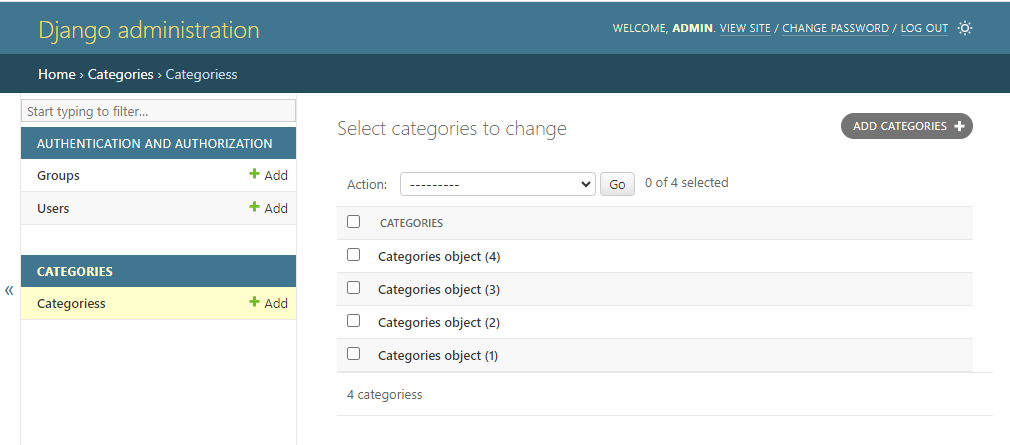
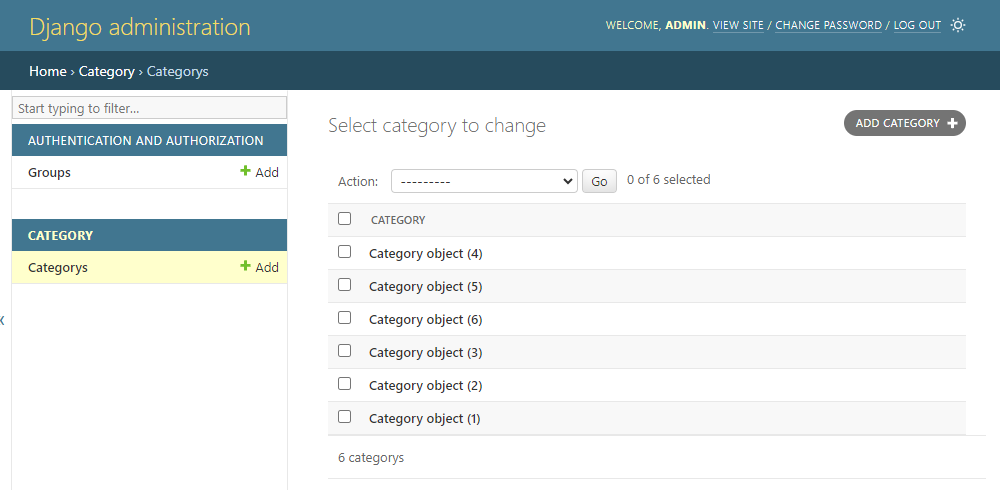
up

diff --git a/01.Lessions/Session-04-Django-Admin/README.md b/01.Lessions/Session-04-Django-Admin/README.md
@@ -20,8 +20,6 @@ urlpatterns = [
     path('', include("home.urls")),
     # đường dẫn đến trang admin
     path('admin/', admin.site.urls), 
-    path('categories/', include('categories.urls')),
-    
 ]
 ```
 
@@ -53,13 +51,13 @@ Mặc định khi tạo một app thì nó đã có sẵn file `admin.py`, bạn
 ```python
 from django.contrib import admin
 # Nạp model vào
-from .models import Categories
+from .models import Category
 # Register your models here.
 # Sử dụng hàm admin.site.register để đăng ký Model 
-admin.site.register(Categories)
+admin.site.register(Category)
 ```
 
-Sau đó bạn restart lại server và kiểm tra trong giao diện admin sẽ thấy Module Categories được thêm vào.
+Sau đó bạn restart lại server và kiểm tra trong giao diện admin sẽ thấy Model Category được thêm vào.
 
 ![admin03](img/admin03.png)
 
@@ -73,14 +71,15 @@ Danh sách tên các danh mục, nhưng nó hiển thị mặc định như hìn
 from django.db import models
 
 # Create your models here.
-# Tạo bảng Categories
-class Categories(models.Model):
+# Tạo bảng Category
+class Category(models.Model):
     #Để hiện thị tên ở trong list Dashboard
     def __str__(self):
         return self.category_name
     
     class Meta:
-        db_table = 'categories'
+        db_table = 'bs_categories'
+        ordering = ['category_name']
 
     category_name = models.CharField(max_length=50) # Trường category_name
     description = models.CharField(max_length=500) # Trường description
@@ -94,25 +93,62 @@ Sau đó bạn sẽ thấy được tên danh mục như hình sau:
 Như vậy bạn đã đăng ký thành công một Model trong giao diện Admin và nó có đầy đủ các tính năng cơ bản CURD (Xem, Thêm, Sửa, Xóa).
 
 
-### Custom hiển thị cho App trong Admin
+## 💛 Custom hiển thị cho App trong Admin
 
 Tài liệu chi tiết xem: https://docs.djangoproject.com/en/5.0/ref/contrib/admin/
 
+Dưới đây là một số thuộc tính quan trọng để tùy chỉnh hiển thị trong trang quản trị Django, cùng với một ví dụ chung:
+
+1. **list_display**: Một tuple chứa tên các trường mà bạn muốn hiển thị trên trang danh sách.
+2. **list_filter**: Một tuple chứa tên các trường mà bạn muốn sử dụng làm bộ lọc.
+3. **search_fields**: Một tuple chứa tên các trường mà bạn muốn tìm kiếm.
+4. **ordering**: Một tuple chứa tên các trường mà bạn muốn sắp xếp theo.
+5. **fields**: Một tuple hoặc list chứa tên các trường mà bạn muốn hiển thị trên form chỉnh sửa.
+6. **exclude**: Một tuple hoặc list chứa tên các trường mà bạn không muốn hiển thị trên form chỉnh sửa.
+7. **readonly_fields**: Một tuple hoặc list chứa tên các trường mà bạn muốn đặt ở chế độ chỉ đọc.
+8. **formfield_overrides**: Ghi đè lại cách hiển thị của Field
+
+
+Ví dụ, nếu bạn muốn tùy chỉnh hiển thị cho model `MyModel`, bạn có thể tạo một lớp `ModelAdmin` như sau:
+
+```python
+from django.contrib import admin
+
+class MyModelAdmin(admin.ModelAdmin):
+    list_display = ('field1', 'field2', 'field3')
+    list_filter = ('field1', 'field2')
+    search_fields = ('field1', 'field2')
+    ordering = ('field1',)
+    fields = ('field1', 'field2', 'field3')
+    exclude = ('field4',)
+    readonly_fields = ('field5',)
+
+admin.site.register(MyModel, MyModelAdmin)
+```
+
+Trong đó, `field1`, `field2`, `field3`, `field4`, và `field5` là các trường trong model `MyModel`.
+
+
+### 🔥 Custom hiển thị lưới danh sách
+
 Trong hình trên, bạn thấy mặc định nó chỉ có một cột thông tin, bạn có thể cấu hình để hiển thị thêm các cột theo ý muốn.
 
-Edit `categories/admin.py`. Thêm một `class CategoriesAdmin` như sau:
+Edit `categories/admin.py`. Thêm một `class CategoryAdmin` như sau:
 
 
 ```python
 from django.contrib import admin
-from .models import Categories
+#Đứng thư mục hiện tại là dấu ., lấy file  models, dùng Model Category
+from .models import Category
 
 # Cấu hình các trường hiển thị ở trang danh sách
-class CategoriesAdmin(admin.ModelAdmin):
+class CategoryAdmin(admin.ModelAdmin):
+
   list_display = ("id", "category_name", "description",)
 
+    #...
 # Register your models here.
-admin.site.register(Categories)
+admin.site.register(Category, CategoryAdmin)
 ```
 
 Kết quả được như hình. 
@@ -124,6 +160,163 @@ Mặc định nó lấy cột đầu tiên ID để tạo liên kết xem chi ti
 ![admin07](img/admin07.png)
 
 
+
+### 🔥 Custom hiển thị Form
+
+#### 🔸 Thêm dòng ghi chú cho input nhập liệu
+
+Bạn thêm tùy chọn `help_text` vào Field trong Model
+
+```python
+is_active = models.BooleanField(default=True,help_text='Chọn nếu sản phẩm đang bán')
+```
+
+#### 🔸 Thay đổi thứ tự xuất hiện các inputs
+
+Bạn có thể cấu hình ở Lớp ModelAdmin trong file `admin.py`
+
+
+```python
+from django.contrib import admin
+
+class MyModelAdmin(admin.ModelAdmin):
+    fields = ('field1', 'field2', 'field3')
+
+admin.site.register(MyModel, MyModelAdmin)
+```
+
+Với field1, field2, field3 là tên các fields
+
+
+Hoặc bạn thay đổi thứ tự khi khái báo các Fields trong Model cũng có tác dụng tương tự.
+
+
+### 🔥 Ẩn một trường khỏi trong Admin
+
+Cách 1: Liệt kê trường vào tùy chọn `exclude`
+
+```python
+from django.contrib import admin
+
+class MyModelAdmin(admin.ModelAdmin):
+    exclude = ('field1',)
+
+admin.site.register(MyModel, MyModelAdmin)
+```
+
+Cách 2: Cấu hình Field trong Model, set `editable=True`
+
+```python
+class Model(models.Model):
+    is_delete = models.BooleanField(default=False,editable=False)
+```
+
+
+
+### 🔥 Thêm Trường Upload hình ảnh
+
+Ví dụ Ở Model Product bạn thêm trường `thumbnail` để upload hình đại diện cho sản phẩm
+
+Bước 1: `Model Product` bạn thêm trường `thumbnail`
+
+```python
+thumbnail = models.ImageField(upload_to='thumbnail/%Y/%m/')
+```
+
+Bước 2: Cài thư viện Pillow vào môi trường ảo nếu chưa cài
+
+```bash
+py -m pip install Pillow
+```
+
+Bước 3: Cấu hình MEDIA_ROOT
+
+`MEDIA_ROOT` là cấu hình đường dẫn tuyệt đối cho các tập tin tải lên bởi người dùng trong Django.
+
+Tất cả các tệp tin tải lên dự kiến sẽ lưu hết vào `bikestore/static/uploads/`
+
+Và tùy vào mỗi app, bạn có nhu cấu phân loại ra thành các thư mục con nữa thì bạn cấu hình tiếp trong tùy chọn `upload_to` khi định nghĩa file `ImageField`
+
+Sửa lại file `settings.py` thêm biến `MEDIA_ROOT` gần biến `STATIC_URL`
+
+```python
+MEDIA_ROOT = os.path.join(BASE_DIR, 'bikestore/static/uploads/')
+```
+
+Khi đó URL tuyệt đối của một tệp tin sẽ là
+
+```python
+MEDIA_ROOT + upload_to
+```
+
+Chúng ta sẽ tìm hiểu các để re-size kích thước và giới hạn dung lượng tệp tin tải lên trong bài học sau.
+
+Bước 4: Cấu hình MEDIA_URL
+
+Đây là biến cấu hình URL truy cập đến tập tin trong các View.
+
+```python
+MEDIA_URL = '/bikestore/static/uploads/'
+```
+
+Bước 5: Khai báo URL static
+
+Sửa file `bikestore/urls.py`
+
+```python
+from django.conf import settings
+from django.conf.urls.static import static
+
+urlpatterns = [
+    # các URL khác...
+] + static(settings.MEDIA_URL, document_root=settings.MEDIA_ROOT)
+```
+
+Bước 5: Sử dụng URL
+
+Sau khi bạn khai báo đủ các bước trên, chúng ta sẽ nhận được url của hình ảnh
+
+Trong Python: Tên trường chấm thêm url sau.
+
+```python
+product = Product.objects.get(id=1)
+thumbnail_url = product.thumbnail.url
+```
+
+Trong các views
+
+```html
+<img src="{{ product.thumbnail.url }}" alt="{{ product.name }}">
+```
+
+
 ## 💛 Admin actions
+
+Trong Django, `Admin Action` là một chức năng mạnh mẽ cho phép bạn thực hiện các thao tác trên một tập hợp các đối tượng được chọn từ trang danh sách thay đổi.
+
+Bạn có thể tự định nghĩa một action để xử lý một tác vụ gì đó.
+
+Xem chi tiết: https://docs.djangoproject.com/en/5.0/ref/contrib/admin/actions/
+
+### 🔥 Tạo một Action
+
+Ví dụ bạn cần tạo một action Soft Delete sản phẩm
+
+Bạn edit file `admin.py` của app product. Thêm định nghĩa hàm xử lý.
+
+
+```python
+from django.contrib import admin
+from .models import Product
+
+#Định nghĩa hàm xử lý action
+@admin.action(description="Delete this item to recyclebin")
+def soft_delete(modeladmin, request, queryset):
+    queryset.update(is_delete=True)
+
+class ArticleAdmin(admin.ModelAdmin):
+    #Đăng ký hàm vào biến actions
+    actions = [soft_delete]
+```
 
 ## 💛 Admin documentation generator

diff --git a/01.Lessions/Session-02-Model/README.md b/01.Lessions/Session-02-Model/README.md
@@ -1,4 +1,6 @@
-# Session 03 - Databases and Model
+# Session 02 - Databases and Model
+
+Trong chương này chúng ta sẽ tìm hiểu về `M`, thành phần đầu tiên trong mô hình `MVT`
 
 ## 💛 Cấu hình kết nối Database
 
@@ -177,12 +179,6 @@ class Category(models.Model):
 
 Tài liệu để học cách tạo Model với các trường và kiểu dữ liệu:
 
-### 🔥 Field Options
-
-Là các tùy chọn của trường như: `Null`, `Not Null`, `Default`, `Unique`, `Primary Key`...
-
-Xem đầy đủ: https://docs.djangoproject.com/en/5.0/ref/models/fields/#field-options
-
 ### 🔥 Field Types
 
 Để biết cách tạo trường kiểu chuỗi, kiểu boolean, kiểu date là gì ...
@@ -194,44 +190,63 @@ Xem đầy đủ: https://docs.djangoproject.com/en/5.0/ref/models/fields/#field
 Ví dụ
 
 ```python
-from django.db import models
 
-class Product(models.Model):
     # Định nghĩa khóa chính tự tăng. Nếu không được tạo tự động với tên id
     product_id = models.AutoField(primary_key=True)
     #product_name nvarchar(255) UNIQUE NOT NULL
     product_name = models.CharField(max_length=255, unique=True)
     # brand Có quan hệ với Model Brand
-    brand = models.ForeignKey(Brand, on_delete=models.CASCADE)
+    brand = models.ForeignKey(Brand, on_delete=models.SET_NULL)
     # category Có quan hệ với Model Category
     category = models.ForeignKey(Category, on_delete=models.CASCADE)
     #model_year SMALLINT NOT NULL
     model_year = models.SmallIntegerField()
     #price DECIMAL(18,2) DEFAULT 0
-    price = models.DecimalField(max_digits=18, decimal_places=2, db_default=0)
-    #price DECIMAL(4,2) DEFAULT 0
-    discount = models.DecimalField(max_digits=4, decimal_places=2, db_default=0)
+    price = models.DecimalField(max_digits=18, decimal_places=2, default=0)
+  
+
     #description nvarchar(max) NULL
     description = models.TextField(null=True)
     #created_at timestamp 
     created_at = models.DateTimeField(auto_now_add=True)
     #created_at timestamp  
     updated_at = models.DateTimeField(auto_now=True)
-    # isActived BOOLEAN NOT NULL DEFAULT FALSE
-    isActived = models.BooleanField(db_default=False)
+    # is_active BOOLEAN NOT NULL DEFAULT True
+    is_active = models.BooleanField(default=True)
 
-    class Meta:
-        db_table = 'products'
-        # Danh sách các constraints
-        constraints = [
-            models.CheckConstraint(check=models.Q(price__gte=0), name='ck_products_price'),
-            models.CheckConstraint(check=models.Q(discount__gte=0, discount__lte=70), name='ck_products_discount'),
-        ]
+    #Trường Upload hình ảnh
+    #Cần cài thư viện Pillow
+    thumbnail = models.ImageField(upload_to='upload/%Y/%m')
+
+    #Email
+    email = models.EmailField(max_length=255, unique=True)
+
+    #Trường upload file
+    ## file will be saved to MEDIA_ROOT/uploads/2015/01/30
+    # Cần cấu hình biến MEDIA_ROOT
+    upload = models.FileField(upload_to="uploads/%Y/%m/%d/")
+
+    #Field chọn từ một danh sách định sẵn
+    GENDER_CHOICES = {
+        1: 'Female',
+        2: 'Male',
+        3: 'LGBT'
+    }
+    gender = models.PositiveSmallIntegerField(default=1, choices=GENDER_CHOICES)
 ```
 
 Xem thêm về Model: https://docs.djangoproject.com/en/5.0/ref/models/
 
+---
 
+### 🔥 Field Options
+
+Là các tùy chọn của trường như: `Null`, `Not Null`, `Default`, `Unique`, `Primary Key`...
+
+Xem đầy đủ: https://docs.djangoproject.com/en/5.0/ref/models/fields/#field-options
+
+
+---
 
 ## 💛 Migration
 
@@ -464,7 +479,7 @@ class Staff(models.Model):
     last_name = models.CharField(max_length=50,null=False,blank=False)
     phone = model.CharField(max_length=20,unique=True)
     email = model.CharField(max_length=150,unique=True)
-    active = model.BooleanField(db_default=1)
+    active = model.BooleanField(default=1)
 
 ```
 
@@ -511,7 +526,7 @@ class Staff(PersonAbstract):
         db_table = 'staffs'
     
     #Giữ lại các trường riêng 
-    active = model.BooleanField(db_default=1)
+    active = model.BooleanField(default=1)
 
 ```
 
